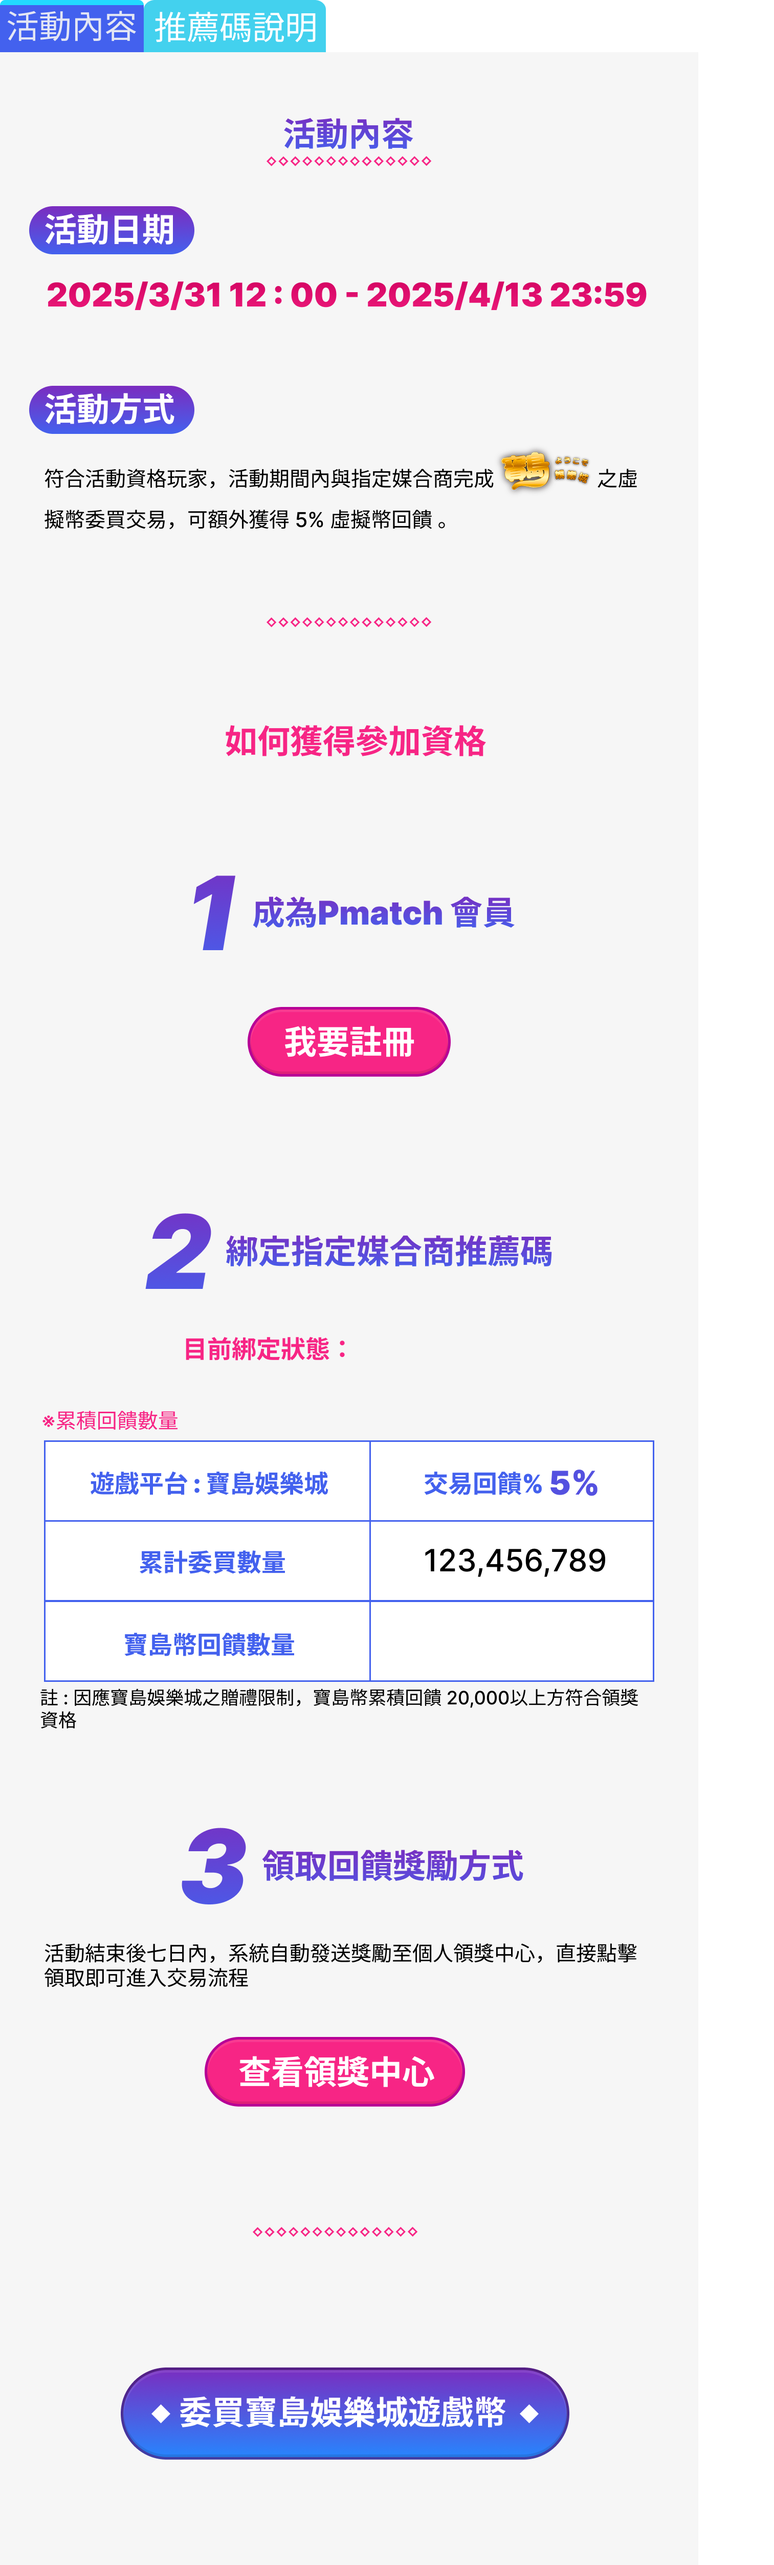
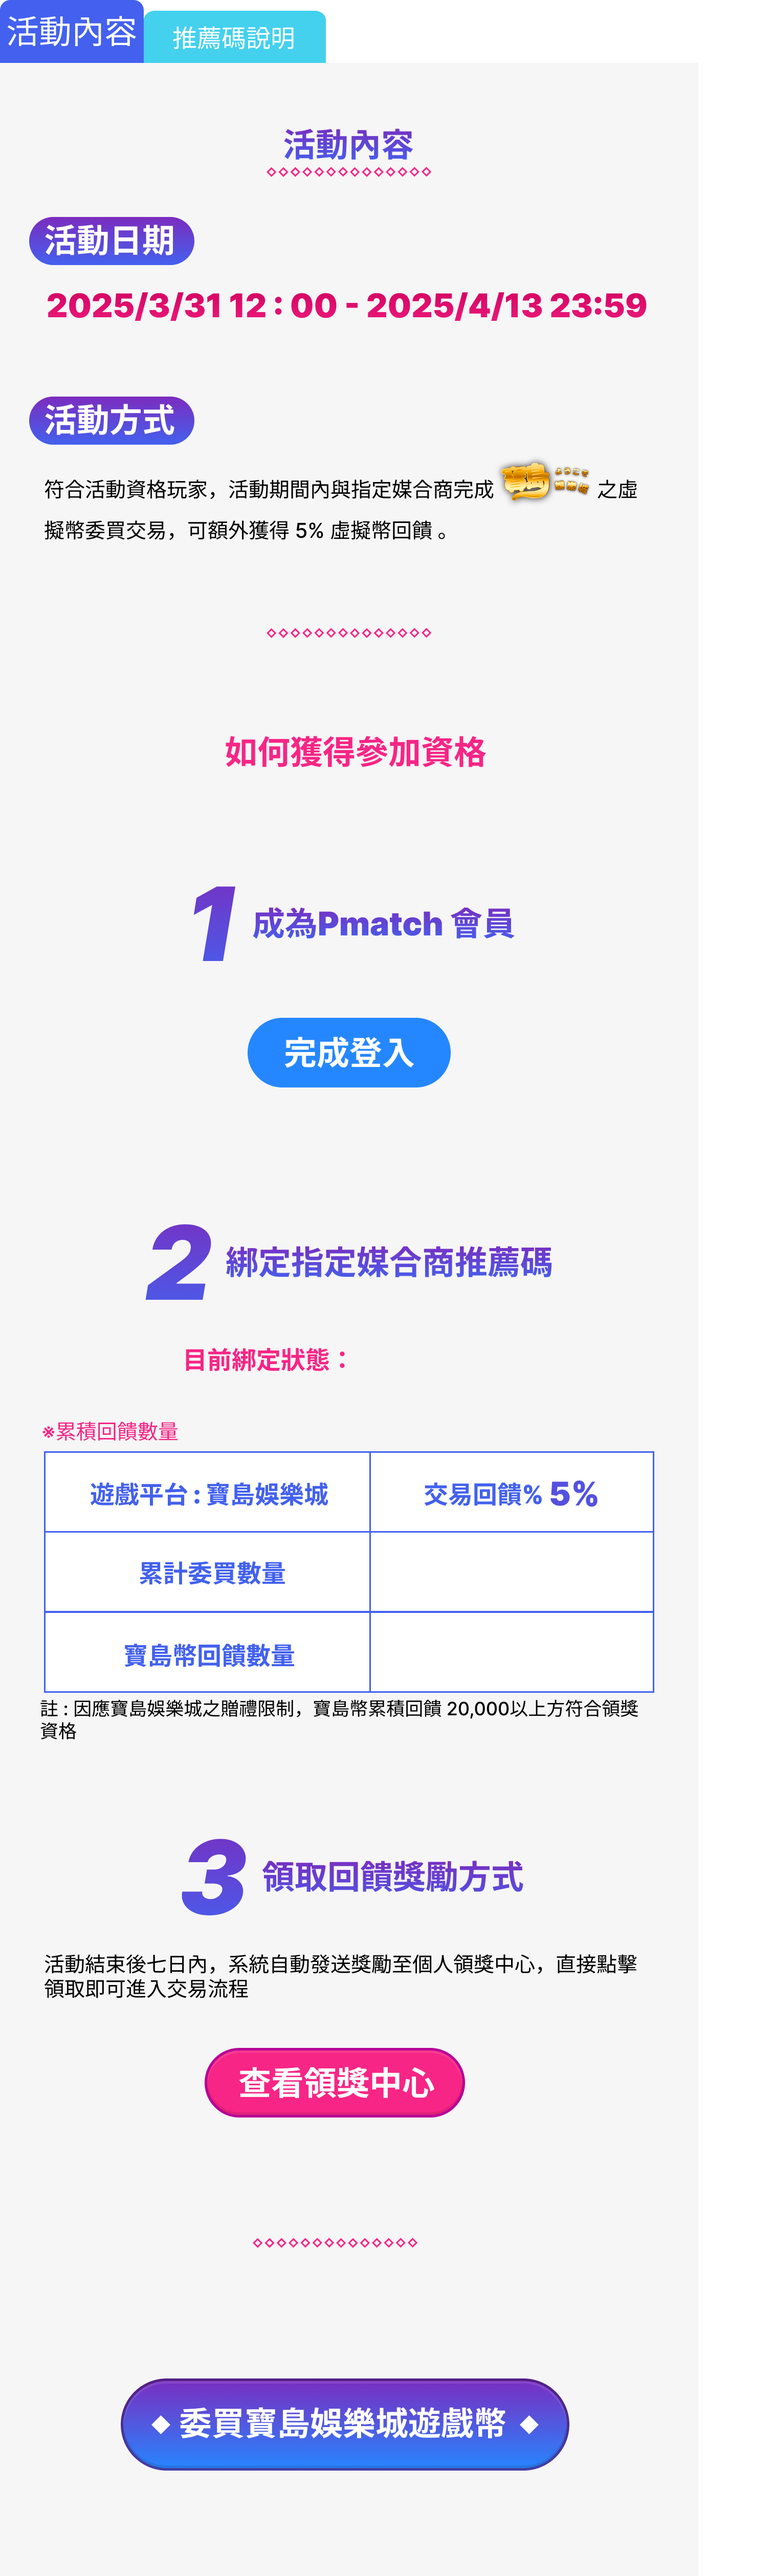
修正活動頁面樣式

diff --git a/Web/Pmatch/pages/activity/index.vue b/Web/Pmatch/pages/activity/index.vue
@@ -2,13 +2,13 @@
     <div v-if="innerPage===1"
          id="page1">
         <div id="innerPage1">
-            <div class="w-43% h-2.28% absolute top-0 left-0 box-border">
-                <div class="w-100% h-100% flex ">
-                    <button class="w-40% the-btn2"
+            <div class="w-43% h-2.5% absolute top-0 left-2px box-border">
+                <div class="w-100% h-100% flex items-end">
+                    <button class="w-45% the-btn2 h-100% !bg-[#4361ee] text-white !text-1.7vw !font-400"
                             :class="innerPage!==1?'non-active':''"
                             @click="()=>innerPage=1">活動內容</button>
-                    <button class="flex-1 the-btn2"
-                            :class="innerPage!==2?'non-active':''"
+                    <button class="flex-1 the-btn2 h-85% !bg-[#43d1ee] text-white !font-300 !text-[1.7vw]"
+                    :class="innerPage!==2?'non-active':''"
                             @click="()=>innerPage=2">推薦碼說明</button>
                 </div>
             </div>
@@ -37,10 +37,10 @@
                     <div>未綁定</div>
                 </div>
             </div>
-            <div class="absolute w-35% h-2.8% bg-white top-59.45% left-[48.5%]">
+            <div class="absolute w-35% h-2.8% bg-white top-59.6% left-[48.5%]">
                 <div class="absolute w-100% h-100% text-center content-center text-1.5vw font-bold text-black">{{activityData.TotalValue? activityData.TotalValue.toLocaleString():'0' }}</div>
             </div>
-            <div class="absolute w-35% h-2.8% bg-white top-62.6% left-[48.5%]">
+            <div class="absolute w-35% h-2.8% bg-white top-62.7% left-[48.5%]">
                 <div class="absolute w-100% h-100% text-center content-center text-1.5vw font-bold text-black">{{ activityData.Reward? activityData.Reward.toLocaleString() :'0'}}</div>
             </div>
             <div class="absolute w-37% h-3.5% top-[78.9%] left-[24.7%]">
@@ -62,21 +62,21 @@
     <div id="page2"
          v-else>
         <div id="innerPage2">
-            <div class="w-35% h-1.4% absolute top-12.2% left-13.8%">
-                <div class="w-100% h-100% flex ">
-                    <button class="w-40% the-btn2"
+            <div class="w-39% h-2% absolute top-[-0.1%] left-0%">
+                <div class="w-100% h-100% flex items-end">
+                    <button class="w-43% the-btn2 !h-85% !bg-[#43d1ee] text-white !text-[1.7vw] !font-300"
                             :class="innerPage===2?'non-active':''"
                             @click="()=>innerPage=1">活動內容</button>
-                    <button class="flex-1 the-btn2"
+                    <button class="flex-1 the-btn2 !h-100% !bg-[#4361ee] text-white !text-[1.7vw] !font-400"
                             :class="innerPage===1?'non-active':''"
                             @click="()=>innerPage=2">推薦碼說明</button>
                 </div>
             </div>
             <button @click="ToRegister"
-                    class="w-28% h-2% absolute top-64.65% left-35% member-btn">前往會員中心</button>
+                    class="w-30% h-2.4% absolute top-68.45% left-26% member-btn">前往會員中心</button>
             <NuxtLink to="/findmatch?platformName=寶島娛樂城&keyword="
                       target="_blank">
-                <button class="w-48% h-2.3% absolute top-84.08% left-24.8% game-btn2"><img src="/activity/squareIcon.svg"
+                <button class="w-55% h-3% absolute top-94.9% left-13% game-btn2"><img src="/activity/squareIcon.svg"
                          alt=""
                          class="md:mr-10px mr-5px md:w-20px w-10px">委買寶島娛樂城遊戲幣<img src="/activity/squareIcon.svg"
                          alt=""
@@ -173,7 +173,7 @@ onMounted(async () => {
     background-repeat: no-repeat;
     background-position: center;
     position: relative;
-    aspect-ratio: 1921/4096;
+    aspect-ratio: 3296/7094;
 }
 #innerPage1 {
     min-width: 42%;
@@ -202,7 +202,6 @@ onMounted(async () => {
     background-color: #f6f4e5;
 }
 .non-active {
-    background-color: lightgray !important;
     &:hover {
         filter: brightness(1.1);
     }
@@ -262,21 +261,23 @@ onMounted(async () => {
     background-image: url('/activity/Slice_8.png');
 }
 #innerPage2 {
-    min-width: 55%;
+    min-width: 46.5%;
+    /* background: green; */
     background-image: url('/activity/分頁二.png');
     background-size: cover;
     background-repeat: no-repeat;
     background-position: center;
+
     position: absolute;
-    aspect-ratio: 1952/8765;
-    top: 0;
-    left: 50%;
+    aspect-ratio: 1683/6539;
+    top: 11.8%;
+    left: 54.3%;
     transform: translateX(-50%);
     z-index: 1;
 }
 .the-btn2 {
     border: none;
-    background-color: #f6f4e5;
+    /* background-color: #f6f4e5; */
     font-size: 1vw;
     text-align: center;
     border-radius: 5px 5px 0 0;
@@ -321,7 +322,7 @@ onMounted(async () => {
     #page1 {
         width: 100%;
         background-image: url('/activity/分頁一背景.png');
-        aspect-ratio: 1921/7070;
+        aspect-ratio: 1903/7070;
     }
     #innerPage1 {
         min-width: unset;
@@ -332,13 +333,13 @@ onMounted(async () => {
     #page2 {
         width: 100%;
         background-image: url('/activity/分頁二背景.png');
-        aspect-ratio: 1903/8765;
+        aspect-ratio: 1903/8610;
     }
     #innerPage2 {
         min-width: unset;
-        width: 100%;
-        top: 0;
-        left: 52%;
+        width: 83%;
+        top: 12.3%;
+        left: 58.4%;
     }
 }
 </style>
